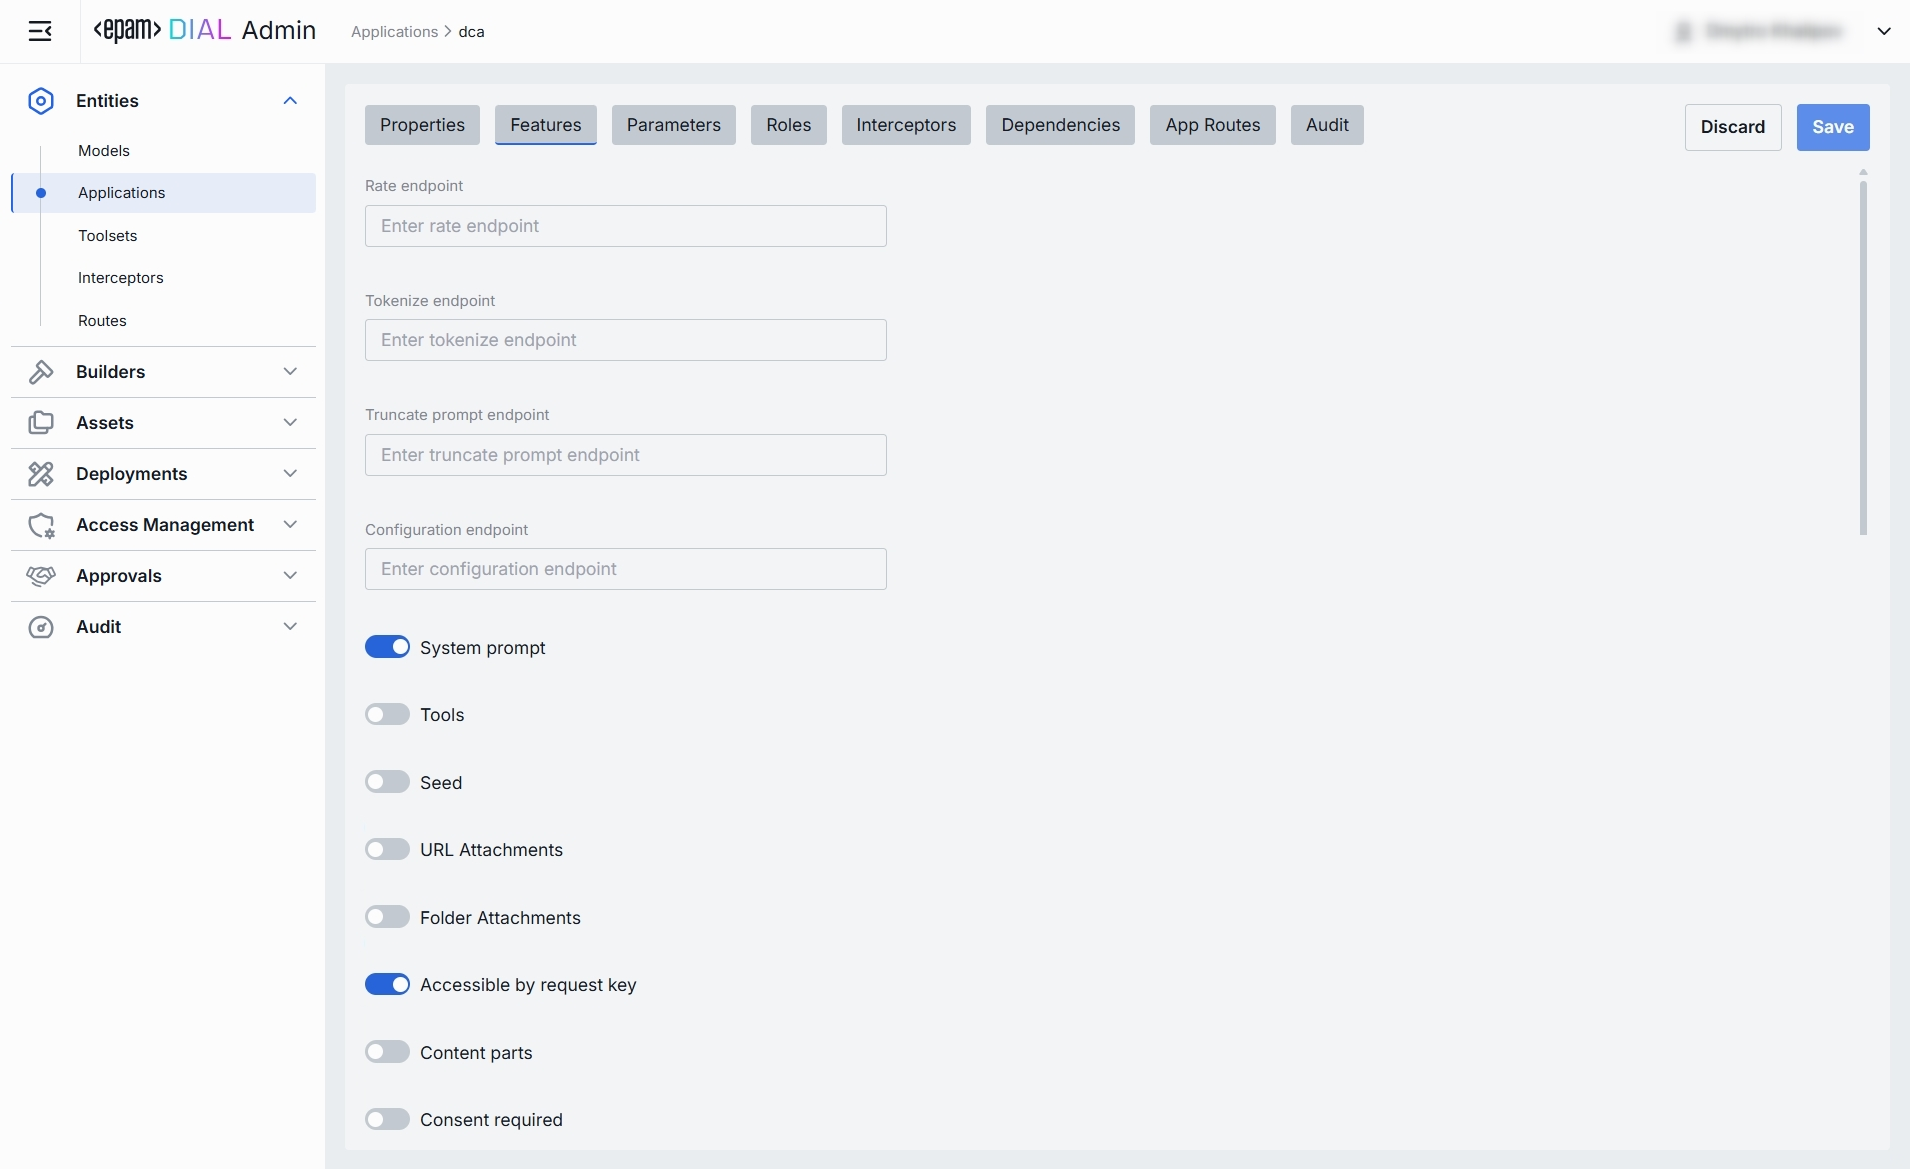
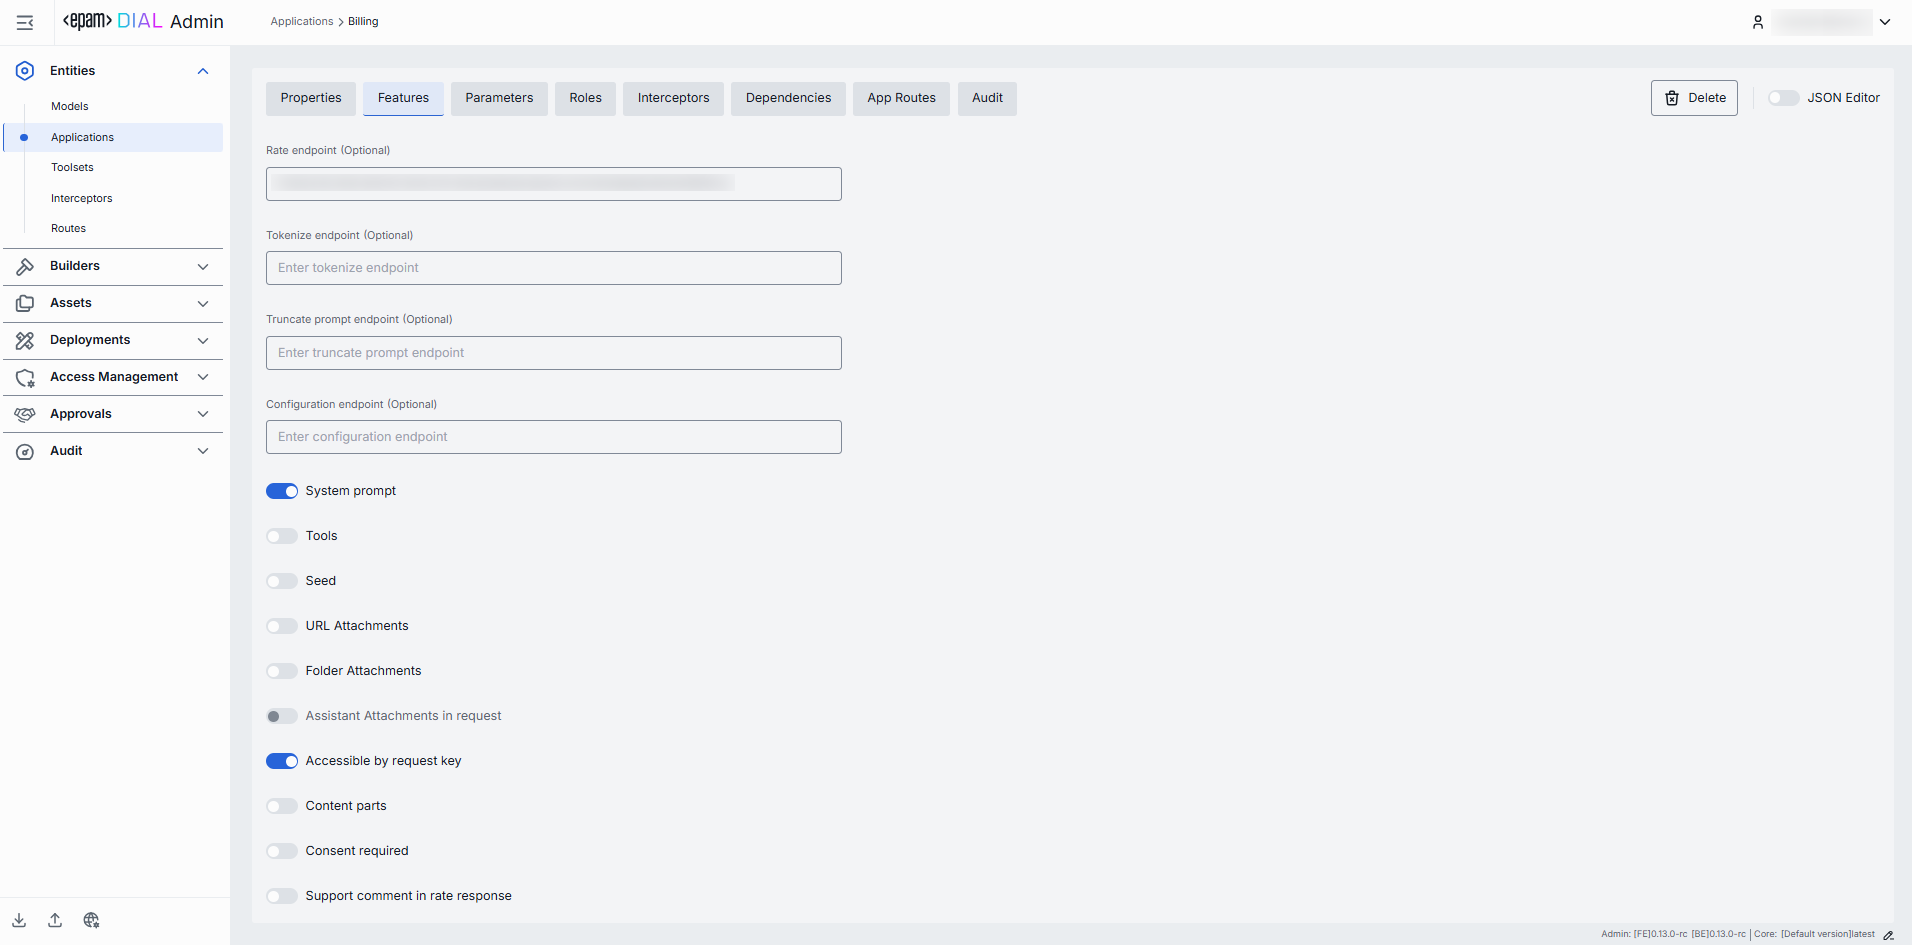
ticker 1272: added assistantAttachmentsInRequestSupported and orwardPerRequestKey

diff --git a/docs/tutorials/3.admin/builders-application-runners.md b/docs/tutorials/3.admin/builders-application-runners.md
@@ -70,16 +70,30 @@ In the **Properties** tab, you can define identity and metadata of application r
 | **Bucket copy**| Yes      | Determines whether files stored in the application's bucket should be copied when the application is copied, moved, or published.|
 | **Topics**  | No| Use tags to associate runner with specific topics or categories (e.g. "finance", "support") for identification and filtering on UI.    |
 | **Completion endpoint**    | Yes      | The base URL or a unique identifier of the runner's service hosting (e.g. `https://my-runner.example.com/v1/execute`). DIAL Core will POST orchestration payloads to this endpoint for any Application bound to this runner. |
-| **Configuration endpoint** | No| A URL to fetch dynamic app-specific settings. Use this to drive runtime overrides from a remote config store. |
-| **Rate endpoint**| No| A URL to call a custom rate-estimation API. Use this to compute cost or quota usage based on your own logic (e.g. grouping by tenant, complex billing rules).|
-| **Truncate prompt endpoint**      | No| A URL to call your own prompt-truncation API. Handy if you implement advanced context-window management (e.g. dynamic summarization) before the actual application call.      |
-| **Tokenize endpoint**      | No| A URL to call a custom tokenization service.|
 | **Viewer URL** | No| A URL of the custom viewer UI. A custom UI, if enabled, will override the standard DIAL Chat UI for applications built based on this application runner.|
 | **Editor URL** | No| A URL of the custom builder UI. Application builder allows DIAL Chat end-users to create instances of apps using a UI wizards.|
-| **Application properties header** | No| This setting determines how the apps configuration is handled during a chat completion request. If enabled, DIAL will append the apps configuration to the chat completion request headers.   |
-| **Playback support**| No| [Playback](/docs/tutorials/0.user-guide.md#playback) allows to simulate a conversation without any engagement with models. This allows to review and analyze the conversation flow without invoking any model responses. |
 
 ![ ](img/img_26.png)
+
+### Features
+
+In the Features tab, you can control optional capabilities of applications created with the Application Runner. 
+
+You can override or extend DIAL Core’s built-in protocol calls with your own HTTP services. Here, you can specify endpoints used by Application Runners (e.g. a Python or Node Runner) to perform preprocessing or policy checks before delegating to your underlying models and workflows.
+
+> Values are propagated to applications created with the related application runner and can be overridden on per-application basis in the [Applications Configuration](/docs/tutorials/3.admin/entities-applications.md#features).
+
+| Field                        | Required|Description |
+|------------------------------|----------|----------------|
+| **Configuration endpoint** | No| A URL to fetch dynamic app-specific settings. Use this to drive runtime overrides from a remote config store. |
+| **Rate endpoint**| No| A URL to call a custom rate-estimation API. Use this to compute cost or quota usage based on your own logic (e.g. grouping by tenant, complex billing rules).|
+| **Tokenize endpoint**      | No| A URL to call a custom tokenization service.|
+| **Truncate prompt endpoint**      | No| A URL to call your own prompt-truncation API. Handy if you implement advanced context-window management (e.g. dynamic summarization) before the actual application call.      |
+| **Application properties header** | No| This setting determines how the apps configuration is handled during a chat completion request. If enabled, DIAL will append the apps configuration to the chat completion request headers.   |
+| **Playback support**| No| [Playback](/docs/tutorials/0.user-guide.md#playback) allows to simulate a conversation without any engagement with models. This allows to review and analyze the conversation flow without invoking any model responses. |
+|**Assistant attachments in request**| No|Indicates whether the application supports DIAL attachments in the assistant messages. When set to `true`, DIAL Chat must preserve attachments in the assistant messages, instead of removing them. The feature is especially useful for apps that can generate attachments as well as take attachments in its input.|
+
+![ ](img/runner_features.png)
 
 ### Parameters
 

diff --git a/docs/tutorials/3.admin/entities-applications.md b/docs/tutorials/3.admin/entities-applications.md
@@ -4,7 +4,7 @@
 
 > Refer to [DIAL-Native Applications](/docs/platform/3.core/7.apps.md) to learn about applications in DIAL.
 
-## Applications Main Screen
+## Main Screen
 
 In Applications, you can see, create and manage applications deployed in your instance of DIAL.
 
@@ -26,7 +26,7 @@ In Applications, you can see, create and manage applications deployed in your in
 | **Max attachment number** | Maximum number of attachments allowed in a single request.                      |
 | **Forward auth token**    | This parameter allow you to determine whether the Auth Token should be forwarded from the caller's session to the upstream API call. This enables multi-tenant scenarios or pass-through authentication for downstream services. |
 
-## Create Application
+## Create
 
 On the main screen you can add new application deployments.
 
@@ -131,12 +131,14 @@ Enable or disable per-request options that your application accepts from clients
 | **Tools**                     | Enables `tools`/`functions` payloads in API calls. Switch on if your application makes external function calls (e.g. calendar lookup, database fetch).        |
 | **Seed**                      | Enables the `seed` parameter for reproducible results. Great for testing or deterministic pipelines.  Disable to ensure randomized creativity.                |
 | **URL Attachments**           | Enables URL references (images, docs) as attachments in API requests. Must be enabled if your workflow downloads or processes remote assets via URLs.         |
+|**Assistant attachments in request**| Indicates whether the application supports DIAL attachments in the assistant messages. When set to `true`, DIAL Chat must preserve attachments in the assistant messages, instead of removing them. The feature is especially useful for apps that can generate attachments as well as take attachments in its input. The value is inherited from the related application runner.|
 | **Folder Attachments**        | Enables attachments of folders (batching multiple files).                                                                                                     |
 | **Accessible by request key** | Indicates whether the deployment is accessible using a [per-request API key](/docs/platform/3.core/3.per-request-keys.md).                                    |
 | **Content parts**             | Indicates whether the deployment supports requests with content parts or not.                                                                                 |
 | **Consent required**          | indicates whether the application requires user consent before use.                                                                                           |
 
 ### Parameters
+
 The Parameters tab within an application’s configuration allows administrators to manage application-specific parameters that influence its behavior:
 * Displays a list of key–value pairs defined for the selected application.
 * Parameters can be used to pass custom configurations or flags.

diff --git a/docs/tutorials/3.admin/entities-toolsets.md b/docs/tutorials/3.admin/entities-toolsets.md
@@ -75,6 +75,7 @@ In the **Properties** tab, you can view and edit main definitions and settings f
 | **Container**          | Conditional | MCP server container ID. Applies for MCP Container deployment source type.   |
 | **Transport**          | Yes         |  A transport supported by MCP server. The available options are: HTTP or SSE. Default: HTTP. Choose SSE for server-sent events when supported. |
 | **Authentication**     | Yes         | The following toolset authentication options are available: <br/> 1. **OAuth** - authenticate via OAuth 2.0 with an external identity provider. Supports **With login** and **With login & configuration** options. <br/> 2. **API Key** - authenticate requests using a key. <br/> 3. **Without authentication** — no authentication enforced, endpoint is publicly accessible.<br/>Refer to [DIAL Core](https://github.com/epam/ai-dial-core/blob/development/docs/dynamic-settings/toolset_credentials_api.md) to learn more about toolset authentication. |
+|**Forward per request key**|Set this flag to `true` if you want a [per-request key](/docs/platform/3.core/3.per-request-keys.md) to be forwarded to the toolset endpoint allowing a toolset to access files in the DIAL storage. **Note**: it is not allowed to create toolsets with `authType.API_KEY` and `forwardPerRequestKey=true`.|
 | **Max retry attempts** | Yes         | Number of times DIAL Core will [retry](/docs/platform/3.core/5.load-balancer.md#fallbacks) a failed call (due to timeouts or 5xx errors).|
 
 ### Tools Overview

diff --git a/docs/tutorials/3.admin/assets-toolsets.md b/docs/tutorials/3.admin/assets-toolsets.md
@@ -119,6 +119,7 @@ In the **Properties** tab, you can preview and modify selected toolset's basic p
 | **External Endpoint**    | The MCP endpoint that a Quick App can call to fetch external data.         |
 | **Transport**|  A transport supported by MCP server. The available options are: HTTP or SSE. Default: HTTP. Choose SSE for server-sent events when supported.        |
 |**Authentication**|Authentication settings for the Toolset. Supported OAUTH, API_KEY, or NONE. Refer to [DIAL Core](https://github.com/epam/ai-dial-core/blob/development/docs/dynamic-settings/toolset_credentials_api.md) to learn more about toolset authentication.|
+|**Forward per request key**|Set this flag to `true` if you want a [per-request key](/docs/platform/3.core/3.per-request-keys.md) to be forwarded to the toolset endpoint allowing a toolset to access files in the DIAL storage. **Note**: it is not allowed to create toolsets with `authType.API_KEY` and `forwardPerRequestKey=true`.|
 | **Max retry attempts**   | Number of times DIAL Core will [retry](/docs/platform/3.core/5.load-balancer.md#fallbacks) a failed call (due to timeouts or 5xx errors).   |
 
 ### Tools Overview
